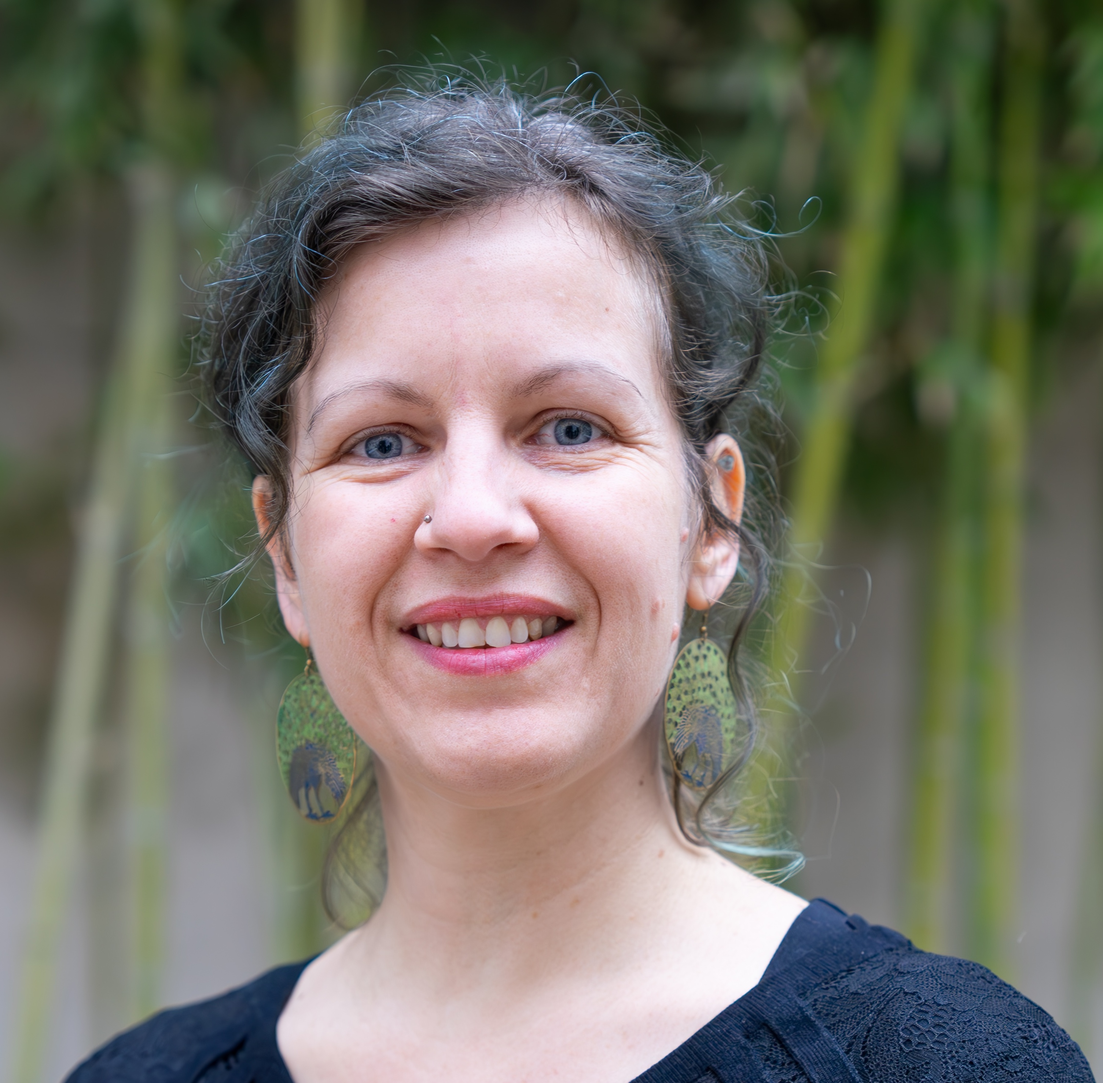
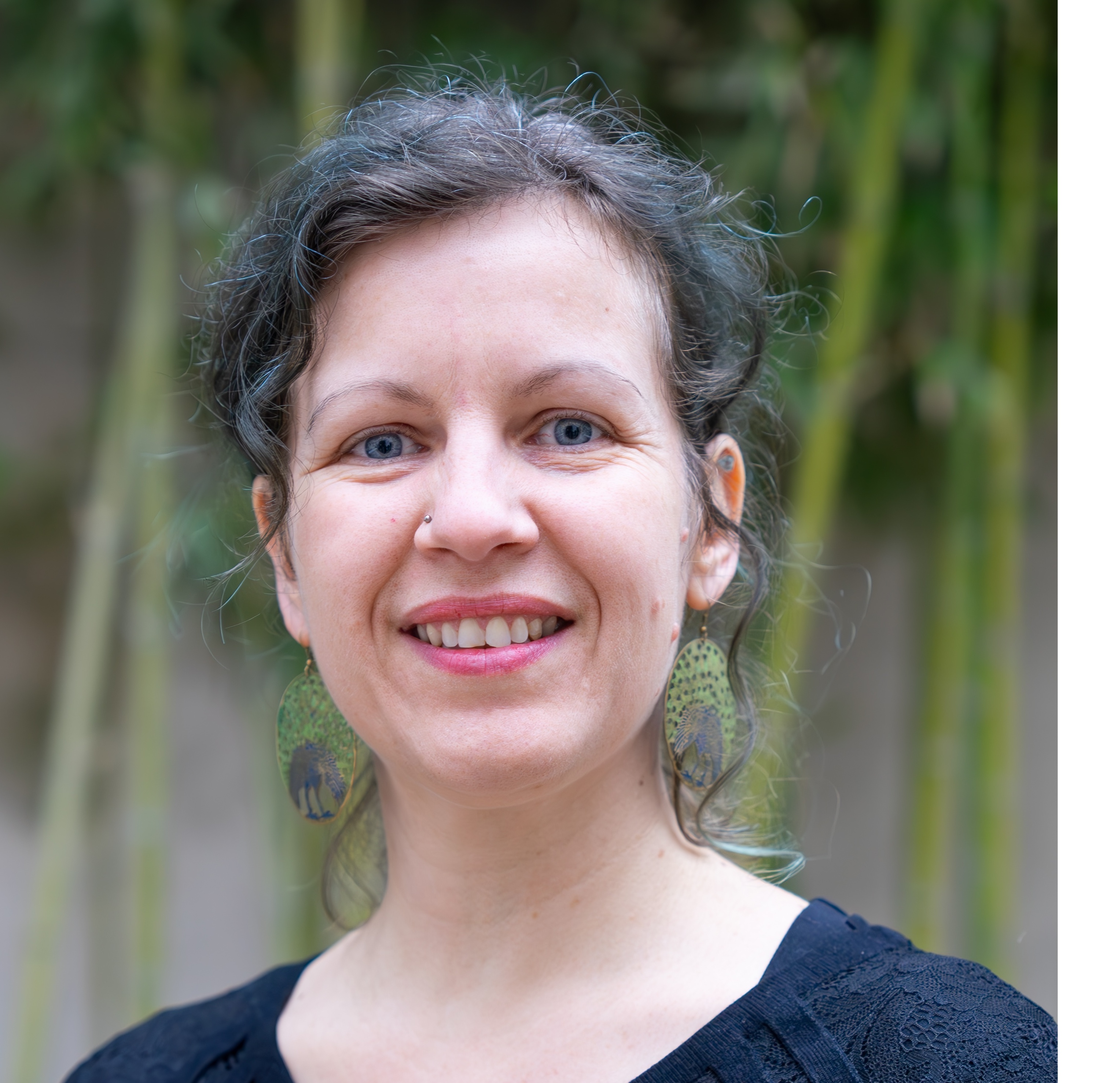
info

Changed region(s): [[0.9372, 0.0, 1.0, 1.0]]

diff --git a/index.md b/index.md
@@ -2,10 +2,6 @@
 
 ## About me
 
-I am a molecular geneticist and work on the role and regulation of inter-plant variability. 
-Inter-plant variability 
-
-<br>
 
 <div style="clear: both;">
   <div style="float: left; margin-right 1em;">
@@ -16,8 +12,8 @@ Inter-plant variability
   </div>
 </div>
 
-<img src="images/SandraCortijo_photo.jpg" width="200">
 
+To know more about me, see my [short CV](files/CV.Rmd)
 
 
 <br>
